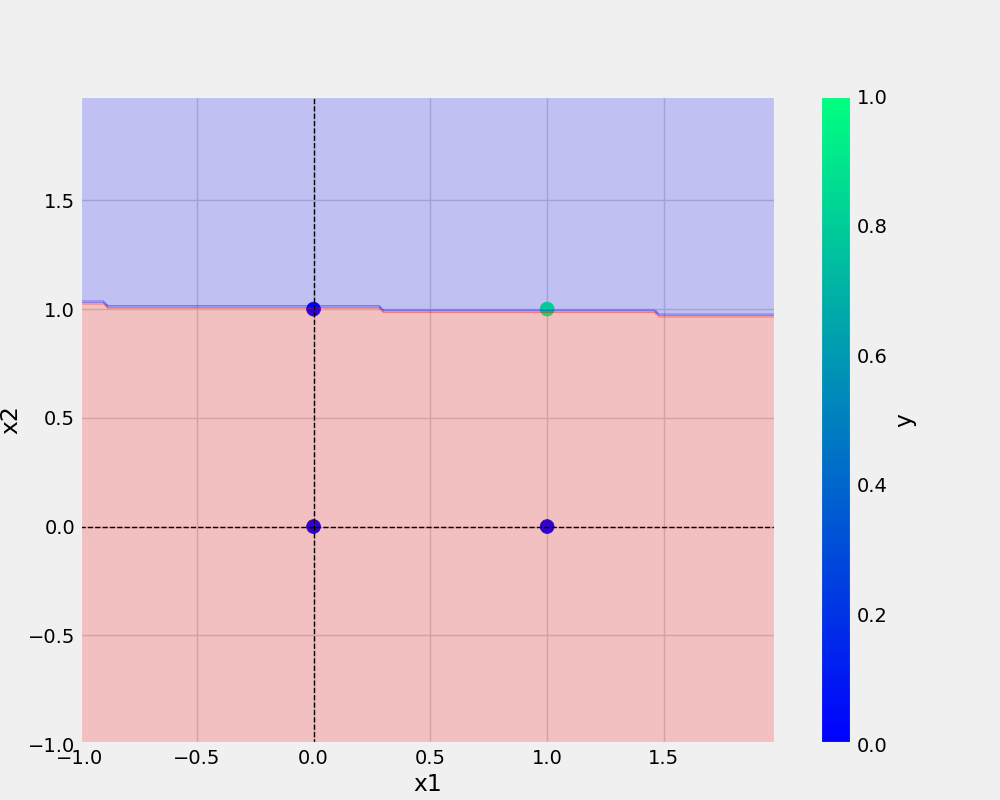
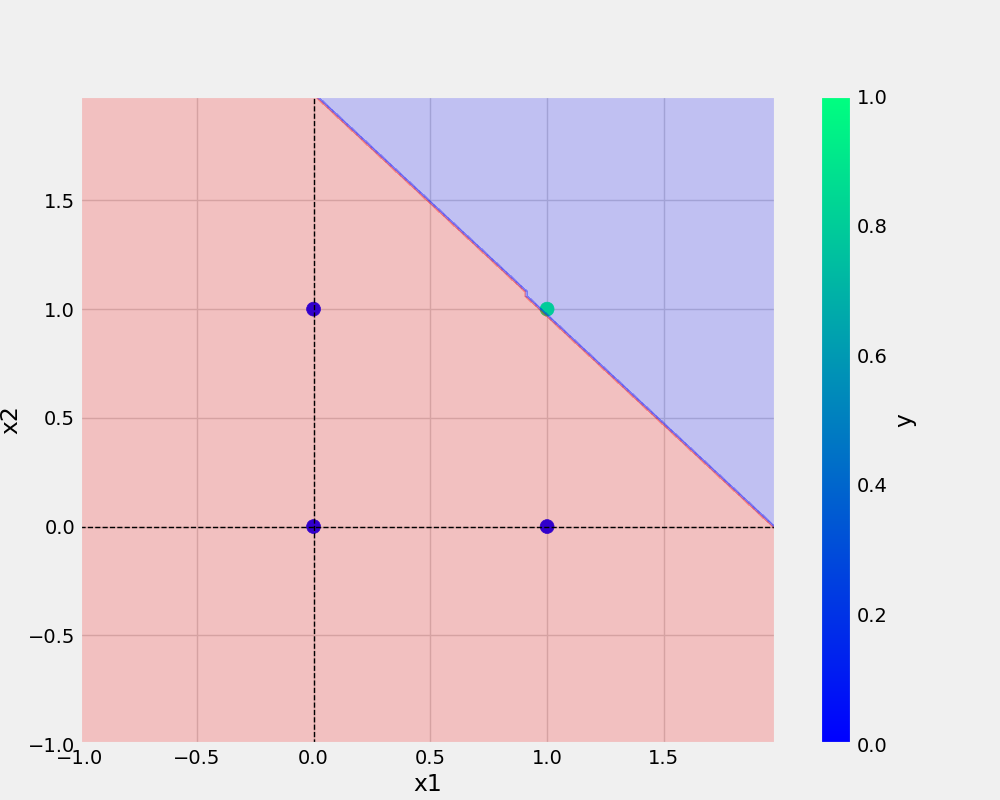
code organized

Changed region(s): [[0.062, 0.125, 0.775, 0.6562]]

diff --git a/and.py b/and.py
@@ -3,23 +3,29 @@ from utils.all_utils import prepare_data, save_model, save_plot
 import pandas as pd
 import numpy as np
 
+def main(data, eta, epochs, filename, plotFileName):
+    
+    df = pd.DataFrame(data)
+    print(df)
 
-AND ={
-    "x1":[0,0,1,1],
-    "x2":[0,1,0,1],
-    "y" :[0,0,0,1]
-}
-df = pd.DataFrame(AND)
-print(df)
+    X , y = prepare_data(df)
+    print(f"X shape :{X.shape}, y shape : {y.shape}")
+    
+    model_and = Perceptron(eta = eta, epochs=epochs)
+    model_and.fit(X,y)
 
-X , y = prepare_data(df)
-print(f"X shape :{X.shape}, y shape : {y.shape}")
-ETA = 0.01
-EPOCH = 10
-model = Perceptron(eta = ETA, epochs=EPOCH)
-model.fit(X,y)
+    _ = model_and.total_loss()
 
-_ = model.total_loss()
+    save_model(model_and, filename=filename)
+    save_plot(df,file_name=plotFileName, model=model_and)
 
-save_model(model, filename="and.model")
-save_plot(df,file_name="and.png", model=model)
+
+if __name__ == '__main__':
+    AND ={
+        "x1":[0,0,1,1],
+        "x2":[0,1,0,1],
+        "y" :[0,0,0,1]
+    }
+    ETA = 0.01
+    EPOCH = 10
+    main(data=AND, eta=ETA, epochs=EPOCH,filename= "and.model",plotFileName= "and.png")

diff --git a/or.py b/or.py
@@ -1,0 +1,30 @@
+from utils.model import Perceptron
+from utils.all_utils import prepare_data, save_model, save_plot
+import pandas as pd
+import numpy as np
+
+def main(data, eta, epochs, filename, plotFileName):
+    
+    df = pd.DataFrame(data)
+    print(df)
+
+    X , y = prepare_data(df)
+    print(f"X shape :{X.shape}, y shape : {y.shape}")
+    
+    model_or = Perceptron(eta = eta, epochs=epochs)
+    model_or.fit(X,y)
+
+    _ = model_or.total_loss()
+
+    save_model(model_or, filename=filename)
+    save_plot(df,file_name=plotFileName, model=model_or)
+
+if __name__ == '__main__':
+    AND ={
+        "x1":[0,0,1,1],
+        "x2":[0,1,0,1],
+        "y" :[0,1,1,1]
+    }
+    ETA = 0.01
+    EPOCH = 10
+    main(data=AND, eta=ETA, epochs=EPOCH,filename= "or.model",plotFileName= "or.png")

diff --git a/utils/model.py b/utils/model.py
@@ -2,7 +2,7 @@ import numpy as np
 
 class Perceptron:
     def __init__(self, eta, epochs):
-        np.random.seed(7)
+        np.random.seed(3)
         self.weights = np.random.randn(3)*1e-4
         print(f"initial weights before training : {self.weights}")
         self.eta = eta
